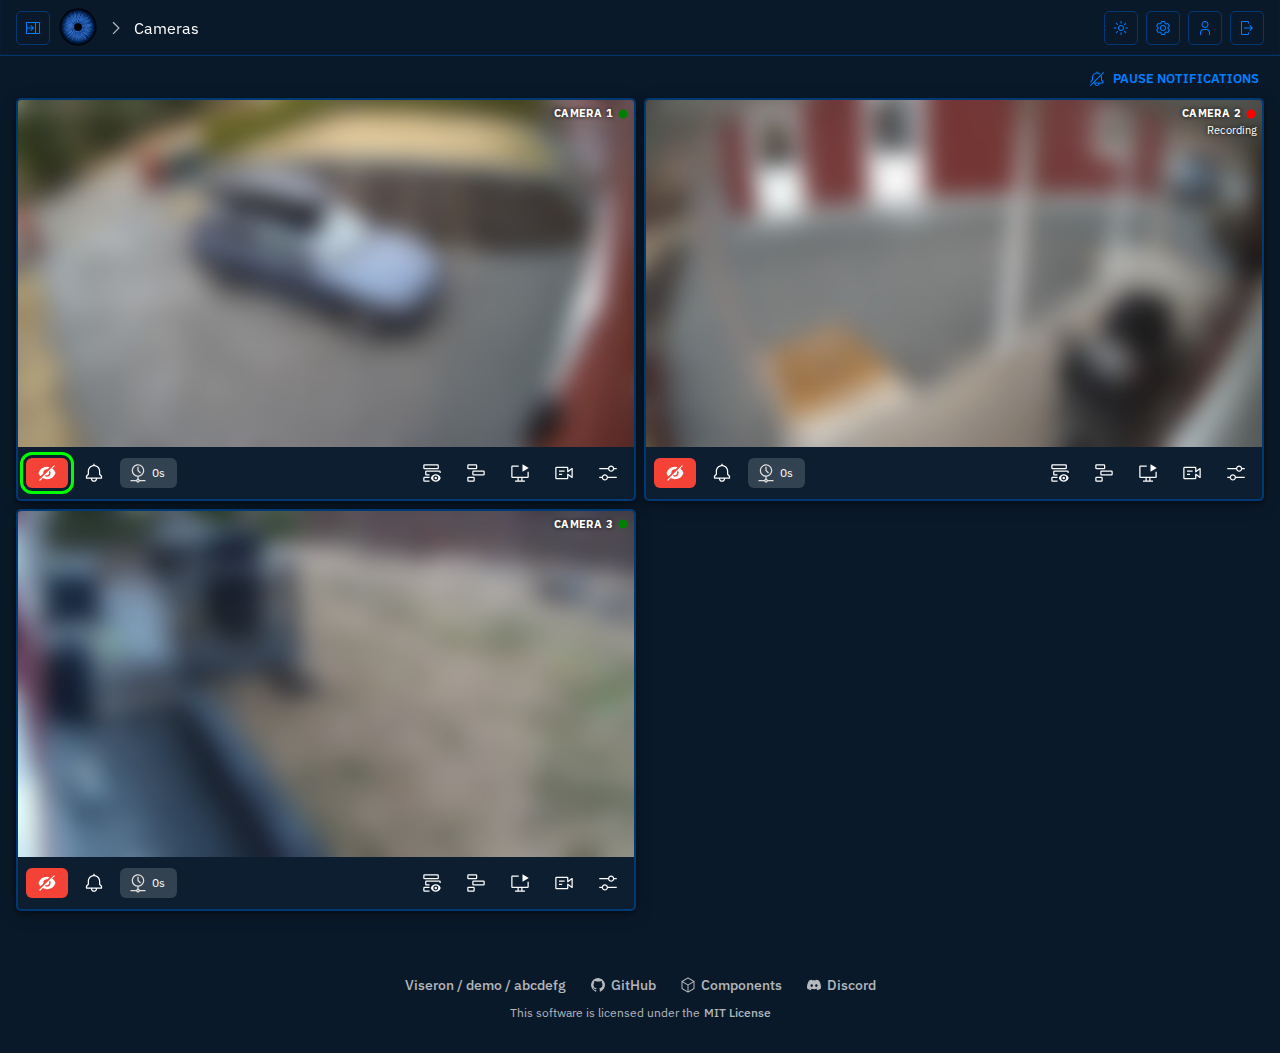
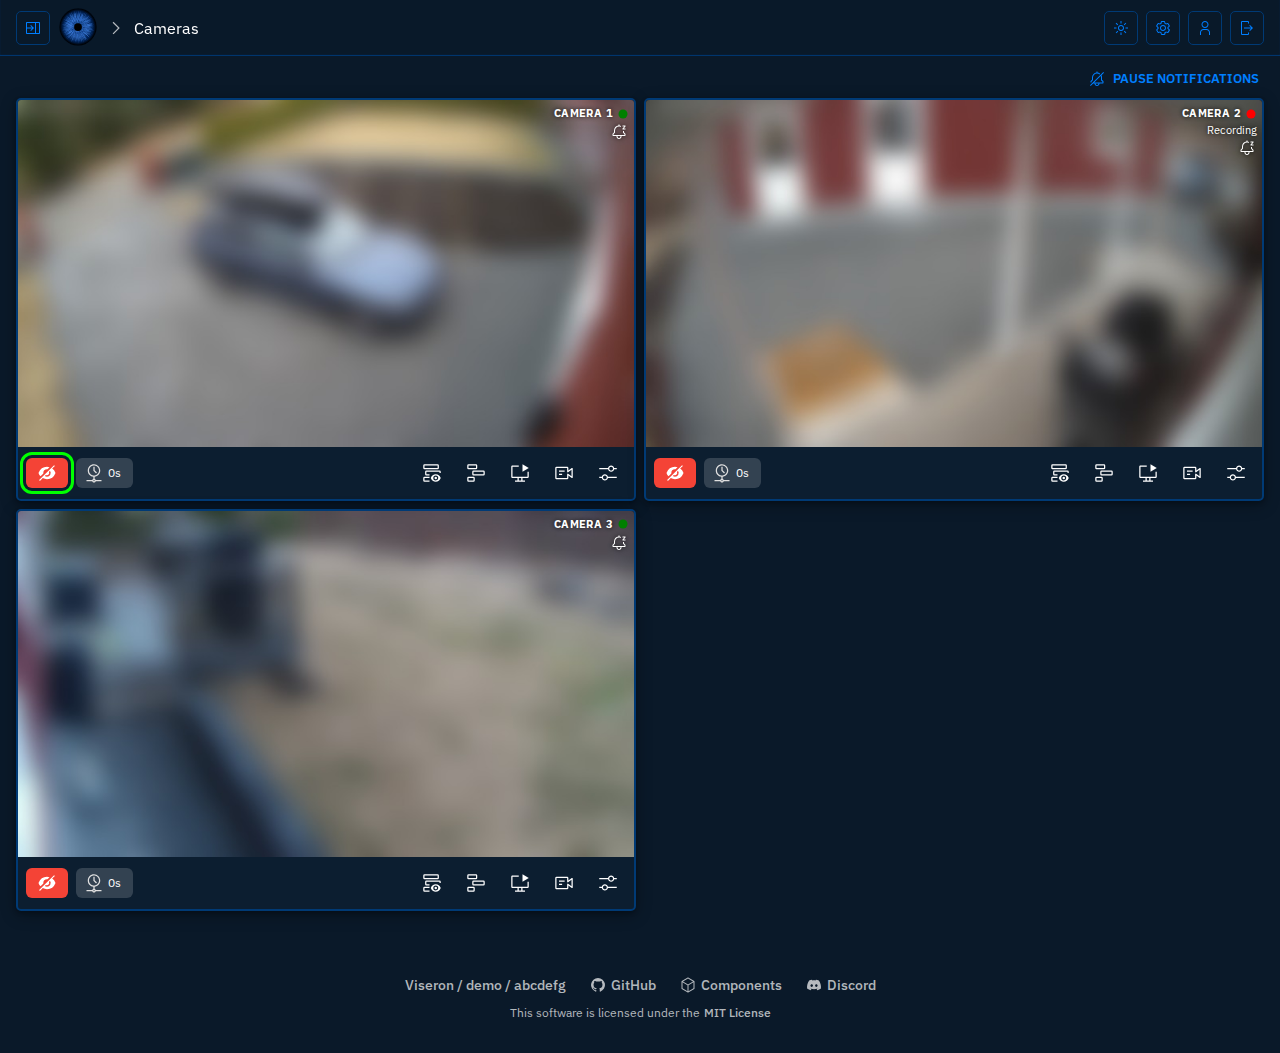
feat: move the notifications pause toggle into the camera name overlay
The toggle sat in the camera card's action row, which overflows on
narrow phones such as the iPhone 15 Pro. It now sits under the camera's
status text in the name overlay, only on cards that show their action
buttons, so the camera picker grid does not get it.

The overlay's separate paused icon is gone, since the toggle shows the
paused state itself. Where there is no toggle (players, or users who are
not admins) a paused camera shows when its notifications resume as a
line of status text instead.

The toggle uses the NotificationsPaused icon, and the "Pause until..."
dialog matches the other date pickers (fullWidth, maxWidth xs, picker
wrapped in a Stack). Docs text and screenshots are updated.

Changed region(s): [[0.5312, 0.4255, 0.625, 0.4862], [0.0625, 0.4255, 0.1562, 0.4862], [0.0625, 0.8205, 0.1562, 0.8509]]

diff --git a/frontend/tests/components/camera/CameraNameOverlay.test.tsx b/frontend/tests/components/camera/CameraNameOverlay.test.tsx
@@ -1,0 +1,110 @@
+import { screen } from "@testing-library/react";
+import { HttpResponse, http } from "msw";
+import { API_BASE_URL } from "tests/mocks/handlers";
+import { server } from "tests/mocks/server";
+import { renderWithContext } from "tests/utils/renderWithContext";
+import { describe, expect, test } from "vitest";
+
+import { CameraNameOverlay } from "components/camera/CameraNameOverlay";
+import * as types from "lib/types";
+
+const camera: types.Camera = {
+  identifier: "camera1",
+  name: "Camera 1",
+  width: 1920,
+  height: 1080,
+  access_token: "token",
+  mainstream: { width: 1920, height: 1080 },
+  still_image: {
+    refresh_interval: 10,
+    available: true,
+    width: 1920,
+    height: 1080,
+  },
+  failed: false,
+  is_on: true,
+  connected: true,
+  live_stream_available: true,
+  is_recording: false,
+  is_manual_recording: false,
+  timelapse: false,
+  notifications_configured: true,
+  notifications_paused: true,
+  notifications_paused_until: null,
+};
+
+const adminUser: types.AuthUserResponse = {
+  id: "1",
+  name: "",
+  username: "",
+  role: "admin",
+  assigned_cameras: null,
+  preferences: null,
+};
+
+const readUser: types.AuthUserResponse = { ...adminUser, role: "read" };
+
+function mockCamera(overrides: Partial<types.Camera> = {}) {
+  server.use(
+    http.get(`${API_BASE_URL}/camera/camera1`, () =>
+      HttpResponse.json({ ...camera, ...overrides }),
+    ),
+  );
+}
+
+describe("CameraNameOverlay notifications", () => {
+  test("shows the pause toggle when asked to", async () => {
+    mockCamera();
+    renderWithContext(
+      <CameraNameOverlay camera_identifier="camera1" notificationsPause />,
+      { user: adminUser },
+    );
+
+    expect(
+      await screen.findByTestId("camera-notifications-button"),
+    ).toHaveAccessibleName("Notifications paused until resumed");
+  });
+
+  test("shows the pause as text without the toggle", async () => {
+    mockCamera();
+    renderWithContext(<CameraNameOverlay camera_identifier="camera1" />);
+
+    expect(
+      await screen.findByText("Notifications paused until resumed"),
+    ).toBeInTheDocument();
+    expect(
+      screen.queryByTestId("camera-notifications-button"),
+    ).not.toBeInTheDocument();
+  });
+
+  test("shows the pause as text to a user who is not an admin", async () => {
+    mockCamera();
+    renderWithContext(
+      <CameraNameOverlay camera_identifier="camera1" notificationsPause />,
+      { user: readUser },
+    );
+
+    expect(
+      await screen.findByText("Notifications paused until resumed"),
+    ).toBeInTheDocument();
+    expect(
+      screen.queryByTestId("camera-notifications-button"),
+    ).not.toBeInTheDocument();
+  });
+
+  test("shows no toggle for a camera without notifications", async () => {
+    mockCamera({
+      notifications_configured: false,
+      notifications_paused: false,
+    });
+    renderWithContext(
+      <CameraNameOverlay camera_identifier="camera1" notificationsPause />,
+      { user: adminUser },
+    );
+
+    expect(await screen.findByText("Camera 1")).toBeInTheDocument();
+    expect(
+      screen.queryByTestId("camera-notifications-button"),
+    ).not.toBeInTheDocument();
+  });
+});

diff --git a/frontend/src/components/camera/NotificationsPause.tsx b/frontend/src/components/camera/NotificationsPause.tsx
@@ -1,4 +1,4 @@
-import { Notification, NotificationOff } from "@carbon/icons-react";
+import { NotificationOff, NotificationsPaused } from "@carbon/icons-react";
 import Button from "@mui/material/Button";
 import Dialog from "@mui/material/Dialog";
 import DialogActions from "@mui/material/DialogActions";
@@ -8,6 +8,7 @@ import IconButton from "@mui/material/IconButton";
 import ListSubheader from "@mui/material/ListSubheader";
 import Menu from "@mui/material/Menu";
 import MenuItem from "@mui/material/MenuItem";
+import Stack from "@mui/material/Stack";
 import Tooltip from "@mui/material/Tooltip";
 import { DateTimePicker } from "@mui/x-date-pickers/DateTimePicker";
 import { Dayjs } from "dayjs";
@@ -66,20 +67,21 @@ function PauseUntilDialog({ open, onClose, onPause }: PauseUntilDialogProps) {
   const valid = until !== null && until.isValid() && until.isAfter(getDayjs());
 
   return (
-    <Dialog open={open} onClose={onClose}>
+    <Dialog fullWidth maxWidth="xs" open={open} onClose={onClose}>
       <DialogTitle>Pause notifications until</DialogTitle>
       <DialogContent>
-        <DateTimePicker
-          label="Resume at"
-          value={until}
-          onChange={setUntil}
-          onAccept={setUntil}
-          disablePast
-          closeOnSelect={false}
-          ampm={is12HourFormat()}
-          format={getDisplayDateTimeFormat()}
-          sx={{ mt: 1 }}
-        />
+        <Stack sx={{ mt: 1 }}>
+          <DateTimePicker
+            label="Resume at"
+            value={until}
+            onChange={setUntil}
+            onAccept={setUntil}
+            disablePast
+            closeOnSelect={false}
+            ampm={is12HourFormat()}
+            format={getDisplayDateTimeFormat()}
+          />
+        </Stack>
       </DialogContent>
       <DialogActions>
         <Button onClick={onClose}>Cancel</Button>
@@ -150,11 +152,6 @@ function NotificationsPauseMenu({
   );
 }
 
-const iconStyle = {
-  width: "clamp(16px, 3vw, 20px)",
-  height: "clamp(16px, 3vw, 20px)",
-};
-
 export function CameraNotificationsButton({
   camera,
 }: {
@@ -170,14 +167,20 @@ export function CameraNotificationsButton({
         <IconButton
           data-testid="camera-notifications-button"
           aria-label={text}
-          color={camera.notifications_paused ? "warning" : "default"}
+          size="small"
           disabled={notifications.isPending}
           onClick={(event) => setAnchorEl(event.currentTarget)}
+          sx={{
+            padding: "2px",
+            pointerEvents: "auto",
+            color: camera.notifications_paused ? "warning.main" : "white",
+            filter: "drop-shadow(rgba(0, 0, 0, 0.88) 0px 0px 2px)",
+          }}
         >
           {camera.notifications_paused ? (
-            <NotificationOff style={iconStyle} />
+            <NotificationOff size={16} />
           ) : (
-            <Notification style={iconStyle} />
+            <NotificationsPaused size={16} />
           )}
         </IconButton>
       </Tooltip>

diff --git a/frontend/src/components/camera/CameraNameOverlay.tsx b/frontend/src/components/camera/CameraNameOverlay.tsx
@@ -1,14 +1,20 @@
-import { CircleFill, NotificationOff, VideoOff } from "@carbon/icons-react";
+import { CircleFill, VideoOff } from "@carbon/icons-react";
 import Box from "@mui/material/Box";
 import Typography from "@mui/material/Typography";
 import { SxProps, Theme } from "@mui/material/styles";
 
+import {
+  CameraNotificationsButton,
+  pausedUntilText,
+} from "components/camera/NotificationsPause";
+import { useAuthContext } from "context/AuthContext";
 import { useCamera } from "lib/api/camera";
 import * as types from "lib/types";
 
 type CameraNameOverlayProps = {
   camera_identifier: string;
   extraStatusText?: string;
+  notificationsPause?: boolean;
 };
 
 const overlayStyles: SxProps<Theme> = {
@@ -54,7 +60,9 @@ function StatusIcon({ camera }: { camera: types.Camera }) {
 export function CameraNameOverlay({
   camera_identifier,
   extraStatusText,
+  notificationsPause = false,
 }: CameraNameOverlayProps) {
+  const { auth, user } = useAuthContext();
   const cameraQuery = useCamera(camera_identifier);
   if (!cameraQuery.data) {
     return null;
@@ -86,17 +94,6 @@ export function CameraNameOverlay({
         <Typography variant="uppercase" sx={cameraNameStyles}>
           {camera.name}
         </Typography>
-        {!camera.failed && camera.notifications_paused && (
-          <NotificationOff
-            size={12}
-            aria-label="Notifications paused"
-            style={{
-              color: "white",
-              marginLeft: "4px",
-              filter: "drop-shadow(rgba(0, 0, 0, 0.88) 0px 0px 2px)",
-            }}
-          />
-        )}
         {!camera.failed && <StatusIcon camera={camera as types.Camera} />}
       </Box>
       {statusText && (
@@ -107,6 +104,27 @@ export function CameraNameOverlay({
           {statusText}
         </Typography>
       )}
+      {!camera.failed &&
+        (notificationsPause &&
+        camera.notifications_configured &&
+        (!auth.enabled || user?.role === "admin") ? (
+          <Box sx={{ display: "flex", justifyContent: "flex-end" }}>
+            <CameraNotificationsButton camera={camera as types.Camera} />
+          </Box>
+        ) : (
+          camera.notifications_paused && (
+            <Typography
+              variant="body2"
+              sx={{
+                ...cameraNameStyles,
+                fontSize: "0.7rem",
+                textAlign: "right",
+              }}
+            >
+              {pausedUntilText(camera as types.Camera)}
+            </Typography>
+          )
+        ))}
       {extraStatusText && (
         <Typography
           variant="body2"

diff --git a/frontend/src/components/camera/CameraCard.tsx b/frontend/src/components/camera/CameraCard.tsx
@@ -29,7 +29,6 @@ import { Link } from "react-router-dom";
 import { CameraNameOverlay } from "components/camera/CameraNameOverlay";
 import { CameraUptime } from "components/camera/CameraUptime";
 import { FailedCameraCard } from "components/camera/FailedCameraCard";
-import { CameraNotificationsButton } from "components/camera/NotificationsPause";
 import { useAuthContext } from "context/AuthContext";
 import { ViseronContext } from "context/ViseronContext";
 import useOnScreen from "hooks/UseOnScreen";
@@ -177,7 +176,10 @@ function SuccessCameraCard({
         ]}
       >
         {compact ? (
-          <CameraNameOverlay camera_identifier={camera.identifier} />
+          <CameraNameOverlay
+            camera_identifier={camera.identifier}
+            notificationsPause={buttons}
+          />
         ) : (
           <CardContent>
             <Typography variant="h5" align="center">
@@ -306,10 +308,6 @@ function SuccessCameraCard({
                     />
                   </Tooltip>
                 )}
-                {camera.notifications_configured &&
-                  (!auth.enabled || user?.role === "admin") && (
-                    <CameraNotificationsButton camera={camera} />
-                  )}
                 <Tooltip title="Uptime Status">
                   <div style={{ cursor: "pointer" }}>
                     <CameraUptime

diff --git a/docs/docs/documentation/configuration/pausing_notifications.md b/docs/docs/documentation/configuration/pausing_notifications.md
@@ -8,7 +8,7 @@ Pausing requires the `admin` role.
 
 ## Web interface
 
-On the `Cameras` page, click the bell on a camera card to pause that camera for 15 minutes, 1 hour, 4 hours, 8 hours, until a date and time you pick, or until resumed. The bell is only shown for cameras that at least one of the components above sends notifications for. While a camera is paused, its bell is crossed out and its tooltip shows when notifications resume. Click the bell again to resume early.
+On the `Cameras` page, click the bell under the camera name on a camera card to pause that camera for 15 minutes, 1 hour, 4 hours, 8 hours, until a date and time you pick, or until resumed. The bell is only shown for cameras that at least one of the components above sends notifications for. While a camera is paused, its bell is crossed out and its tooltip shows when notifications resume. Click the bell again to resume early. Elsewhere, and for users who cannot pause notifications, a paused camera shows when its notifications resume under its name.
 
 To pause all of those cameras at once, use `Pause notifications` above the camera cards.
 
